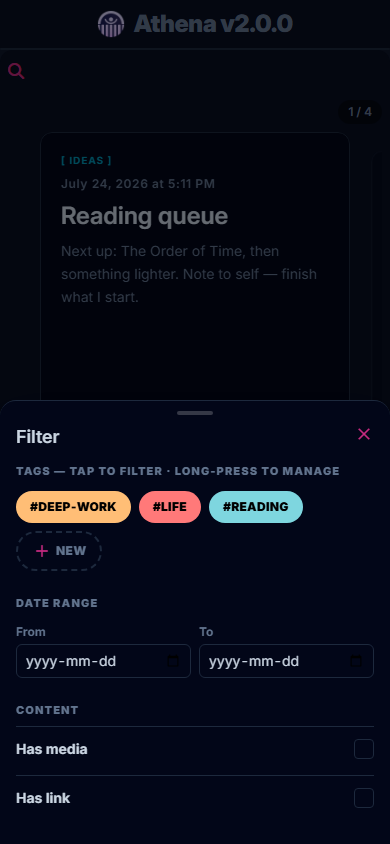
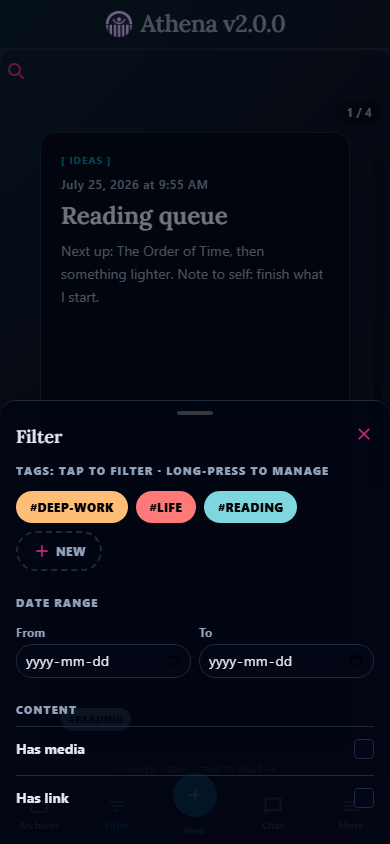
docs(readme): show a different theme and look in each screenshot

diff --git a/client/e2e/screenshots.spec.ts b/client/e2e/screenshots.spec.ts
@@ -129,48 +129,77 @@ test('capture README screenshots of the main surfaces', async ({ page }) => {
     }
 
     // ---------- Capture ----------
+    //
+    // Every surface is shot under a different theme + look pairing, so the
+    // README gallery doubles as a tour of the appearance system rather than
+    // eleven pictures of the same palette. The active theme and look are plain
+    // localStorage strings (themes.ts / looks.ts) read once on boot, so
+    // switching means writing both keys and loading the page again.
+    //
+    // Reloading between surfaces also means no modal state carries over, which
+    // is why nothing here presses Escape to unwind: each capture starts from a
+    // clean feed. The README names the pairing under each shot; if you change a
+    // pairing here, change the caption there too.
     await page.setViewportSize({ width: 1440, height: 900 })
     await page.goto('/')
 
-    // Feed
-    await expect(page.getByText('On keeping a commonplace book')).toBeVisible()
-    await page.waitForTimeout(500)
-    await page.screenshot({ path: resolve(SHOT_DIR, 'feed.png') })
-
-    // Helper: open a menu module via its icon-only HubButton (matched by its
-    // aria-label/title, since the hub icons carry no visible text), shoot,
-    // then Escape out.
-    const captureModal = async (label: string, file: string, ready?: () => Promise<void>) => {
-        await page.getByRole('button', { name: label, exact: true }).first().click()
-        if (ready) await ready()
-        await page.waitForTimeout(700)
-        await page.screenshot({ path: resolve(SHOT_DIR, file) })
+    const appearance = async (theme: string, look: string) => {
+        await page.evaluate(
+            ([t, l]) => {
+                localStorage.setItem('athena-active-theme', t)
+                localStorage.setItem('athena-active-look', l)
+            },
+            [theme, look],
+        )
+        await page.goto('/')
+        // The feed having rendered is the signal that the reload finished and
+        // the new palette has been applied. .first() because the mobile swiper
+        // renders neighbouring cards too.
+        await expect(page.getByText('On keeping a commonplace book').first()).toBeVisible()
+        await page.waitForTimeout(500)
     }
 
+    // Open a menu module via its icon-only HubButton, matched by its
+    // aria-label/title since the hub icons carry no visible text.
+    const openModule = (label: string) => page.getByRole('button', { name: label, exact: true }).first().click()
+
+    // Feed: the shipped defaults, so the hero shot stays the canonical one.
+    await appearance('legacy', 'legacy')
+    await page.screenshot({ path: resolve(SHOT_DIR, 'feed.png') })
+
     // To-Do board
-    await captureModal('Todos', 'todos.png', async () => {
-        await expect(page.getByRole('heading', { name: 'To-Do Board' })).toBeVisible()
-    })
+    await appearance('ocean', 'slate-soft')
+    await openModule('Todos')
+    await expect(page.getByRole('heading', { name: 'To-Do Board' })).toBeVisible()
+    await page.waitForTimeout(700)
+    await page.screenshot({ path: resolve(SHOT_DIR, 'todos.png') })
 
     // Focused moment reader: open the moment linked to the "Ship…" task.
+    // Editorial is the reading-oriented look, which is the point of this
+    // surface. Paired with Neutral rather than Light because Light renders
+    // blockquotes at very low contrast and this moment contains one.
+    await appearance('neutral', 'editorial')
+    await openModule('Todos')
     await page.getByTitle('Open linked moment').first().click()
     await expect(page.getByRole('heading', { name: 'On keeping a commonplace book' })).toBeVisible()
     await page.waitForTimeout(600)
     await page.screenshot({ path: resolve(SHOT_DIR, 'focused-moment.png') })
-    await page.keyboard.press('Escape') // close the reader; the board stays open
-    await page.waitForTimeout(300)
 
-    // Agenda view (toggle inside the still-open board). The toggle's label is a
-    // bare text node beside an icon, so match on the button's accessible name.
-    await page.getByRole('button', { name: 'Agenda' }).click()
+    // Agenda view (a toggle inside the board). Matched on its title rather than
+    // its accessible name: the docked chat widget previews a seeded message
+    // containing the word "agenda", which makes a name match ambiguous.
+    await appearance('royal blue', 'ink')
+    await openModule('Todos')
+    await expect(page.getByRole('heading', { name: 'To-Do Board' })).toBeVisible()
+    await page.getByTitle('Agenda view').click()
     await page.waitForTimeout(600)
     await page.screenshot({ path: resolve(SHOT_DIR, 'agenda.png') })
-    await page.keyboard.press('Escape')
-    await page.waitForTimeout(300)
 
     // Canvas: open the module, then select the seeded canvas so the board
-    // (not the "select a canvas" placeholder) is what gets captured.
-    await page.getByRole('button', { name: 'Canvas', exact: true }).first().click()
+    // (not the "select a canvas" placeholder) is what gets captured. The
+    // context menu below shares this pairing because it is the same session.
+    await appearance('sunset', 'aurora')
+    await openModule('Canvas')
     await page.getByText('Roadmap sketch', { exact: true }).click()
     await expect(page.getByText('Foundation:')).toBeVisible()
     await page.waitForTimeout(700)
@@ -182,50 +211,46 @@ test('capture README screenshots of the main surfaces', async ({ page }) => {
     await expect(page.getByText('Add node', { exact: true })).toBeVisible()
     await page.waitForTimeout(300)
     await page.screenshot({ path: resolve(SHOT_DIR, 'canvas-menu.png') })
-    await page.keyboard.press('Escape')
-    await page.keyboard.press('Escape')
-    await page.waitForTimeout(300)
 
-    // Chat
-    await captureModal('Chat', 'chat.png', async () => {
-        await expect(page.getByText('Optimistic mutations are in. The checkmark lag is gone.')).toBeVisible()
-    })
-    // The composer autofocuses, so the first Escape only blurs it; the second
-    // closes the overlay (see Editor.tsx's chat Escape handling).
-    await page.keyboard.press('Escape')
-    await page.keyboard.press('Escape')
-    await page.waitForTimeout(300)
+    // Chat. Deliberately not Glass: the feed's inline composer sits directly
+    // behind this overlay, and frosting it makes the shot look like a render
+    // bug. Glass gets its showcase on the mobile filter sheet instead.
+    await appearance('arctic', 'slate-soft')
+    await openModule('Chat')
+    // .first() because the docked menu chat widget previews the same messages.
+    await expect(page.getByText('Optimistic mutations are in. The checkmark lag is gone.').first()).toBeVisible()
+    await page.waitForTimeout(700)
+    await page.screenshot({ path: resolve(SHOT_DIR, 'chat.png') })
 
     // Settings: land on the Appearance tab, where the Looks/theme system lives.
-    await page.getByRole('button', { name: 'Settings', exact: true }).first().click()
+    await appearance('rosewood', 'legacy')
+    await openModule('Settings')
     await page.getByRole('button', { name: 'Appearance' }).click()
     await page.waitForTimeout(700)
     await page.screenshot({ path: resolve(SHOT_DIR, 'settings.png') })
-    await page.keyboard.press('Escape')
-    await page.waitForTimeout(300)
 
     // --- Mobile app-shell: reuses the same seeded library, just at a phone
-    //     viewport, to show the swiper feed + bottom nav + sheets. ---
+    //     viewport, to show the swiper feed + bottom nav + sheets. Themed
+    //     separately again, to show the palettes are not desktop-only. ---
     await page.setViewportSize({ width: 390, height: 844 })
-    await page.goto('/')
-    await expect(page.getByText('On keeping a commonplace book')).toBeVisible()
-    await page.waitForTimeout(500)
+
     // The feed as swipeable cards, with the bottom nav (Archives/Filter/New/Chat/More).
+    await appearance('valentine', 'editorial')
     await page.screenshot({ path: resolve(SHOT_DIR, 'mobile-feed.png') })
 
     // Filter sheet: tags, date range, and media/link filters slide up from the
-    // bottom nav instead of a tag bar stacked above the feed.
+    // bottom nav instead of a tag bar stacked above the feed. A sheet over a
+    // plain card feed is the cleanest place to show Glass's frosting.
+    await appearance('dark', 'glass')
     await page.getByRole('button', { name: 'Filter' }).click()
     await expect(page.getByRole('button', { name: '#reading', exact: true })).toBeVisible()
     await page.waitForTimeout(500)
     await page.screenshot({ path: resolve(SHOT_DIR, 'mobile-filter.png') })
-    // Sheets close via their own Close button / backdrop tap, not Escape.
-    await page.getByRole('button', { name: 'Close', exact: true }).click()
-    await page.waitForTimeout(300)
 
     // Chat, opened from the bottom nav.
+    await appearance('light', 'ink')
     await page.getByRole('button', { name: 'Chat' }).click()
-    await expect(page.getByText('Optimistic mutations are in. The checkmark lag is gone.')).toBeVisible()
+    await expect(page.getByText('Optimistic mutations are in. The checkmark lag is gone.').first()).toBeVisible()
     await page.waitForTimeout(600)
     await page.screenshot({ path: resolve(SHOT_DIR, 'mobile-chat.png') })
 })

diff --git a/README.md b/README.md
@@ -7,6 +7,8 @@ desktop app is also available.
 
 ![The Athena feed](docs/screenshots/feed.png)
 
+<sub>Legacy theme, Legacy look</sub>
+
 ## Features
 
 - **Moments.** Notes with a title, a Markdown body, colored tags, and file
@@ -34,28 +36,34 @@ service.
 
 ## Screenshots
 
+No two shots below use the same appearance. Each one names the theme and look
+it was captured under, so the gallery doubles as a tour of what the appearance
+system does. Nothing else differs between them: it is the same library, the
+same content, and the same build throughout.
+
 | To-do board | Agenda |
 | --- | --- |
-| ![To-do board](docs/screenshots/todos.png) | ![Agenda view](docs/screenshots/agenda.png) |
+| ![To-do board](docs/screenshots/todos.png)<br><sub>Ocean theme, Slate-soft look</sub> | ![Agenda view](docs/screenshots/agenda.png)<br><sub>Royal Blue theme, Ink look</sub> |
 
 | Canvas | Chat |
 | --- | --- |
-| ![Canvas](docs/screenshots/canvas.png) | ![Chat](docs/screenshots/chat.png) |
+| ![Canvas](docs/screenshots/canvas.png)<br><sub>Sunset theme, Aurora look</sub> | ![Chat](docs/screenshots/chat.png)<br><sub>Arctic theme, Slate-soft look</sub> |
 
 | Focused reader | Appearance settings |
 | --- | --- |
-| ![Focused moment reader](docs/screenshots/focused-moment.png) | ![Appearance settings](docs/screenshots/settings.png) |
+| ![Focused moment reader](docs/screenshots/focused-moment.png)<br><sub>Neutral theme, Editorial look</sub> | ![Appearance settings](docs/screenshots/settings.png)<br><sub>Rosewood theme, Legacy look</sub> |
 
 The web client is a PWA and installs to a phone. On mobile, moments read one
 at a time as swipeable cards, draggable anywhere on the card and not just the
 edges, with neighbouring cards peeking in. A bottom nav (Archives, Filter,
 New, Chat, More) replaces the desktop tag bar and side menu with sheets that
 slide up over the feed, and long-pressing a card, message, or canvas node
-opens its actions (edit, delete, pin) as a touch-friendly action sheet:
+opens its actions (edit, delete, pin) as a touch-friendly action sheet. Themes
+and looks are not a desktop-only feature, so these are themed separately again:
 
 | Mobile feed | Mobile filter | Mobile chat |
 | --- | --- | --- |
-| ![Mobile layout: the feed and bottom nav](docs/screenshots/mobile-feed.png) | ![Mobile layout: the filter sheet](docs/screenshots/mobile-filter.png) | ![Mobile layout: chat](docs/screenshots/mobile-chat.png) |
+| ![Mobile layout: the feed and bottom nav](docs/screenshots/mobile-feed.png)<br><sub>Valentine theme, Editorial look</sub> | ![Mobile layout: the filter sheet](docs/screenshots/mobile-filter.png)<br><sub>Dark theme, Glass look</sub> | ![Mobile layout: chat](docs/screenshots/mobile-chat.png)<br><sub>Light theme, Ink look</sub> |
 
 ### Looks and themes
 
@@ -63,19 +71,19 @@ A **theme** sets the colour palette. A **look** sets surfaces, typography, and
 shape. The two are independent, so any look composes with any theme, and both
 ship with an editor for making your own.
 
-| Look | Treatment |
-| --- | --- |
-| Legacy | Inter sans, chunky radii, neon shadows |
-| Editorial | Warm parchment, full serif, hairline rules |
-| Glass | Translucent frosted surfaces |
-| Ink | Near-black, sharp corners, mono metadata |
-| Aurora | Layered gradient backdrop, glowing accents |
-| Slate-soft | Borderless, soft shadows, large radii |
+| Look | Treatment | Seen above in |
+| --- | --- | --- |
+| Legacy | Inter sans, chunky radii, neon shadows | Feed, appearance settings |
+| Editorial | Warm parchment, full serif, hairline rules | Focused reader, mobile feed |
+| Glass | Translucent frosted surfaces | Mobile filter |
+| Ink | Near-black, sharp corners, mono metadata | Agenda, mobile chat |
+| Aurora | Layered gradient backdrop, glowing accents | Canvas |
+| Slate-soft | Borderless, soft shadows, large radii | To-do board, chat |
 
 Eleven themes ship: Legacy, Dark, Light, Neutral, Rose, Valentine, Ocean, Royal
-Blue, Sunset, Arctic, and Rosewood. A custom theme exports as a single
-shareable string, and a theme can be pinned per archive so a given archive
-always opens in its own colours.
+Blue, Sunset, Arctic, and Rosewood. Nine of them appear in the screenshots
+above. A custom theme exports as a single shareable string, and a theme can be
+pinned per archive so a given archive always opens in its own colours.
 
 ## Getting started
 
@@ -245,7 +253,9 @@ Commands run from the repository root, which delegates into each sub-project.
 The screenshots are produced from the running app. A Playwright script
 ([`client/e2e/screenshots.spec.ts`](client/e2e/screenshots.spec.ts)) starts a
 fresh server, seeds sample content over the REST API, and captures each surface
-into `docs/screenshots/`.
+into `docs/screenshots/`. It also sets a different theme and look before each
+capture; those pairings are named in the captions above, so changing one in the
+script means changing the matching caption here.
 
 A few things to know before making changes:
 
